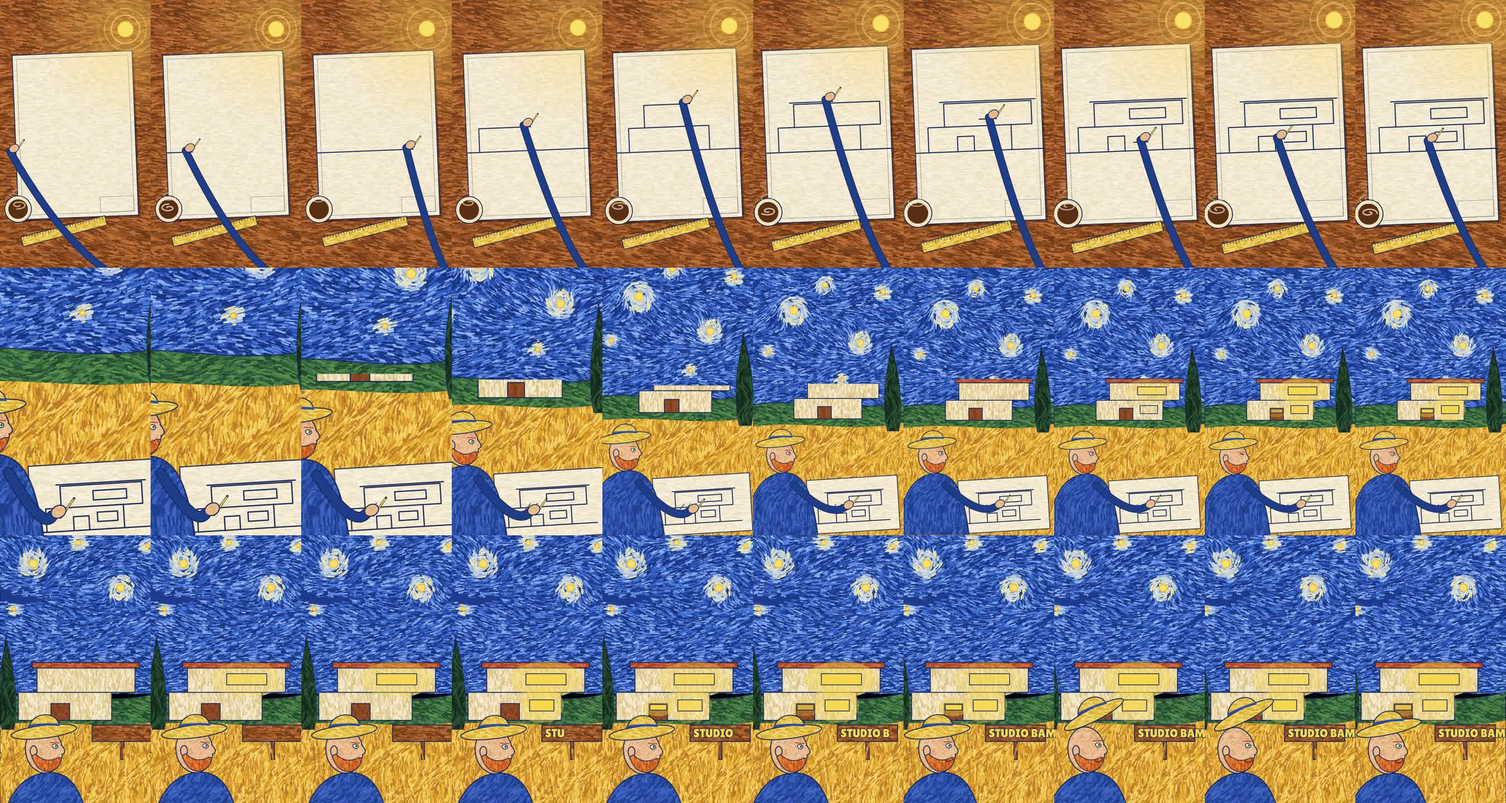
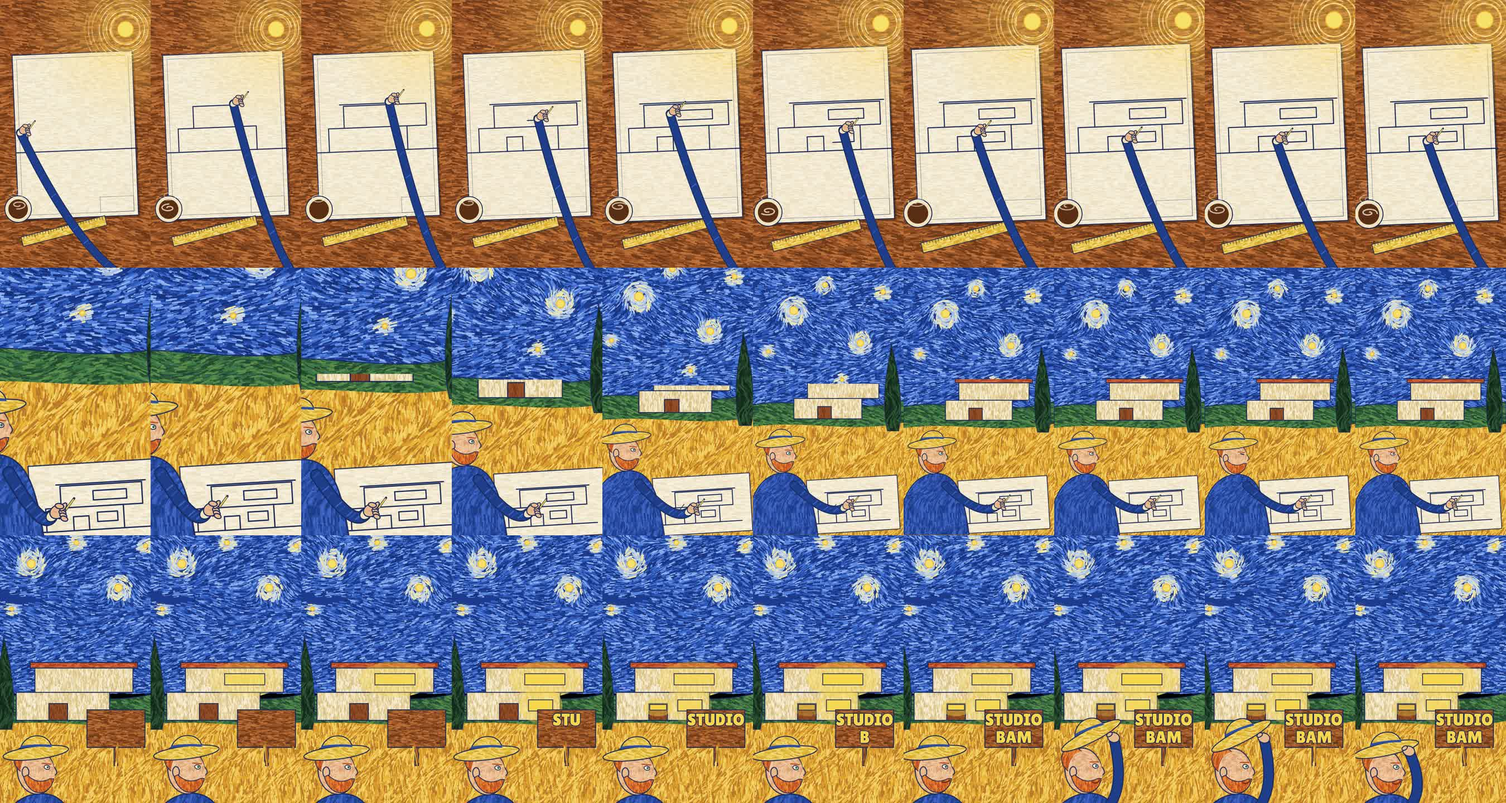
Studio Bam animation: reviewer fixes, delivery
Claude-Session: https://claude.ai/code/session_01SoH2SeP4WKBNkbqnmdVbiL

diff --git a/animasi/studio/代码工程/scenes/vg_common.js b/animasi/studio/代码工程/scenes/vg_common.js
@@ -94,6 +94,11 @@
     SL.strokes(g, head, { colors: C.skin, angFn: (x, y) => Math.atan2(y - 1360, x - 205) + 1.57, len: 16, w: 6, density: 0.07, seed: 32, box: [100, 1230, 310, 1490], outline: [C.ink, 5] });
     g.fillStyle = C.skin[0]; g.strokeStyle = C.ink; g.lineWidth = 5; g.beginPath(); g.moveTo(295, 1330); g.quadraticCurveTo(335, 1372, 298, 1384); g.fill(); g.stroke();
     g.beginPath(); g.ellipse(150, 1365, 18, 28, 0, 0, TAU); g.fill(); g.stroke();
+    const hair = new Path2D(); hair.ellipse(150, 1300, 60, 70, -0.3, 0, TAU);
+    SL.strokes(g, hair, { colors: C.beard, angFn: () => 1.9, len: 22, w: 6, density: 0.08, seed: 36, box: [80, 1220, 220, 1380], outline: [C.ink, 4] });
+    const head2 = new Path2D(); head2.ellipse(215, 1365, 90, 112, -0.15, 0, TAU);
+    SL.strokes(g, head2, { colors: C.skin, angFn: (x, y) => Math.atan2(y - 1360, x - 205) + 1.57, len: 16, w: 6, density: 0.07, seed: 37, box: [120, 1250, 310, 1480] });
+    g.beginPath(); g.ellipse(150, 1365, 18, 28, 0, 0, TAU); g.fillStyle = C.skin[0]; g.fill(); g.strokeStyle = C.ink; g.lineWidth = 5; g.stroke();
     const beard = new Path2D(); beard.moveTo(140, 1390); beard.bezierCurveTo(170, 1500, 280, 1500, 300, 1400); beard.lineTo(280, 1400); beard.bezierCurveTo(240, 1420, 200, 1420, 160, 1380); beard.closePath();
     SL.strokes(g, beard, { colors: C.beard, angFn: () => 1.4, len: 18, w: 5, density: 0.09, seed: 33, box: [130, 1370, 310, 1500], outline: [C.ink, 4] }); });
   const hat = () => P.cached('vga_hat', W, H, g => {
@@ -110,18 +115,31 @@
     c.fillStyle = '#2a6a4a'; c.beginPath(); c.arc(ex + 4, ey, 6 * blink, 0, TAU); c.fill();
     c.lineWidth = 6; c.strokeStyle = '#b84e1e'; c.beginPath(); c.moveTo(240, 1318 - smile * 6); c.lineTo(285, 1322 - smile * 10); c.stroke();
     if (smile > 0) { c.strokeStyle = '#7a2a12'; c.lineWidth = 6; c.beginPath(); c.moveTo(250, 1418); c.quadraticCurveTo(272, 1418 + 16 * smile, 292, 1408); c.stroke(); }
+    if (hatLift > 0.02) { const hx = 205 + 40 * hatLift + 120, hy = 1262 - 90 * hatLift + 10;
+      c.lineCap = 'round'; c.strokeStyle = C.ink; c.lineWidth = 58; c.beginPath(); c.moveTo(330, 1560); c.quadraticCurveTo(430, 1450, hx, hy); c.stroke();
+      c.strokeStyle = C.coat[1]; c.lineWidth = 46; c.stroke(); }
     c.save(); c.translate(205, 1262); c.translate(40 * hatLift, -90 * hatLift); c.rotate(-0.35 * hatLift); c.translate(-205, -1262); c.drawImage(hat(), 0, 0); c.restore();
+    if (hatLift > 0.02) { const hx = 205 + 40 * hatLift + 120, hy = 1262 - 90 * hatLift + 10;
+      c.fillStyle = C.skin[0]; c.strokeStyle = C.ink; c.lineWidth = 5; c.beginPath(); c.ellipse(hx, hy, 32, 26, 0.3, 0, TAU); c.fill(); c.stroke();
+      c.beginPath(); c.ellipse(hx - 22, hy - 16, 16, 10, -0.6, 0, TAU); c.fill(); c.stroke(); }
     c.restore();
   };
   // arm from shoulder to a hand holding a pencil at tip
   VG.hand = (c, t, tip, shoulder, writing) => {
-    const hx = tip[0] - 20, hy = tip[1] - 30 + (writing ? Math.sin(t * 18) * 2 : 0);
-    c.strokeStyle = C.ink; c.lineWidth = 54; c.lineCap = 'round'; c.beginPath(); c.moveTo(shoulder[0], shoulder[1]); c.quadraticCurveTo((shoulder[0] + hx) / 2 + 40, Math.max(shoulder[1], hy) + 90, hx - 30, hy + 20); c.stroke();
-    c.strokeStyle = C.coat[1]; c.lineWidth = 44; c.stroke();
-    c.strokeStyle = C.ink; c.lineWidth = 11; c.beginPath(); c.moveTo(hx + 10, hy + 26); c.lineTo(hx + 72, hy - 62); c.stroke();
-    c.strokeStyle = '#e9c54a'; c.lineWidth = 7; c.beginPath(); c.moveTo(hx + 14, hy + 20); c.lineTo(hx + 68, hy - 56); c.stroke();
-    c.fillStyle = C.skin[0]; c.strokeStyle = C.ink; c.lineWidth = 5; c.beginPath(); c.ellipse(hx, hy, 36, 28, -0.5, 0, TAU); c.fill(); c.stroke();
-    c.strokeStyle = C.skin[1]; c.lineWidth = 4; c.beginPath(); c.moveTo(hx - 10, hy - 14); c.lineTo(hx + 14, hy - 4); c.stroke();
+    const hx = tip[0] - 20, hy = tip[1] - 30 + (writing ? Math.sin(t * 18) * 2 : 0), mx = (shoulder[0] + hx) / 2 + 40, my = Math.max(shoulder[1], hy) + 90;
+    const arm = () => { c.beginPath(); c.moveTo(shoulder[0], shoulder[1]); c.quadraticCurveTo(mx, my, hx - 34, hy + 22); };
+    c.lineCap = 'round'; c.strokeStyle = C.ink; c.lineWidth = 62; arm(); c.stroke(); c.strokeStyle = C.coat[1]; c.lineWidth = 50; arm(); c.stroke();
+    c.lineWidth = 7; for (let i = 0; i < 14; i++) { const f = i / 14, x = (1 - f) ** 2 * shoulder[0] + 2 * f * (1 - f) * mx + f * f * (hx - 34), y = (1 - f) ** 2 * shoulder[1] + 2 * f * (1 - f) * my + f * f * (hy + 22);
+      c.strokeStyle = C.coat[i % 3]; c.beginPath(); c.moveTo(x - 14, y + 10); c.lineTo(x + 12, y - 12); c.stroke(); }
+    c.fillStyle = '#f0e3c0'; c.strokeStyle = C.ink; c.lineWidth = 5; c.beginPath(); c.ellipse(hx - 30, hy + 20, 30, 24, -0.6, 0, TAU); c.fill(); c.stroke();   // cuff
+    c.strokeStyle = C.ink; c.lineWidth = 11; c.beginPath(); c.moveTo(hx + 4, hy + 30); c.lineTo(hx + 72, hy - 62); c.stroke();
+    c.strokeStyle = '#e9c54a'; c.lineWidth = 7; c.beginPath(); c.moveTo(hx + 8, hy + 24); c.lineTo(hx + 68, hy - 56); c.stroke();
+    c.fillStyle = C.skin[0]; c.strokeStyle = C.ink; c.lineWidth = 5;
+    c.beginPath(); c.ellipse(hx - 4, hy, 38, 30, -0.5, 0, TAU); c.fill(); c.stroke();                                    // palm/back of hand
+    for (let k = 0; k < 3; k++) { c.beginPath(); c.ellipse(hx + 18 + k * 4, hy + 4 + k * 14, 17, 11, 0.4, 0, TAU); c.fill(); c.stroke(); }   // curled fingers
+    c.beginPath(); c.ellipse(hx + 22, hy - 22, 22, 11, -0.9, 0, TAU); c.fill(); c.stroke();                              // index on pencil
+    c.beginPath(); c.ellipse(hx + 4, hy - 26, 20, 12, 0.2, 0, TAU); c.fill(); c.stroke();                                // thumb
+    c.strokeStyle = C.skin[1]; c.lineWidth = 4; c.beginPath(); c.moveTo(hx - 24, hy - 4); c.lineTo(hx - 4, hy + 6); c.stroke();
   };
   // camera: scale s around focus (fx,fy), plus pan dx
   VG.cam = (c, s, fx, fy, dx = 0, dy = 0) => { c.translate(fx + dx, fy + dy); c.scale(s, s); c.translate(-fx, -fy); };

diff --git a/animasi/studio/代码工程/scenes/vg_home.js b/animasi/studio/代码工程/scenes/vg_home.js
@@ -7,18 +7,19 @@ SCENES['vg_home'] = (() => {
   return {
     draw(c, lt, t) {
       const tr = U.ease.inOut(U.clamp(lt / 5));
-      c.save(); VG.cam(c, 1.08, 540, 960, U.lerp(45, -45, tr));
+      c.save(); VG.cam(c, 1.08, 540, 960, U.lerp(30, -20, tr));
       VG.sky(c, t, { swirls: SW, stars: STARS, h: 1120, seed: 9, n: 10000 });
       VG.land(c, 'home', { hill: 1150, field: 1330, cypress: 60 });
       VG.house(c, 'home', HX, HY, HS, 1, t, [U.ss(B, B + 0.15, lt), U.ss(2 * B, 2 * B + 0.15, lt), U.ss(3 * B, 3 * B + 0.15, lt)]);
       // sign board on a post, letters painted on the beat
-      c.drawImage(P.cached('hm_sign', W, H, g => { VG.box(g, 800, 1420, 822, 1560, C.wood, 61); VG.box(g, 610, 1330, 1010, 1440, C.wood, 62, 0); }), 0, 0);
+      c.drawImage(P.cached('hm_sign', W, H, g => { VG.box(g, 770, 1470, 794, 1600, C.wood, 61); VG.box(g, 590, 1230, 975, 1480, C.wood, 62, 0); }), 0, 0);
       const txt = 'STUDIO BAM', n = Math.floor(U.clamp((lt - 2 * B) / (B * 3)) * txt.length + (lt > 2 * B ? 1 : 0));
-      c.font = '78px "LilitaOne-400"'; c.textBaseline = 'middle'; c.fillStyle = '#f7d64a'; c.strokeStyle = C.ink; c.lineWidth = 8;
-      const s = txt.slice(0, Math.min(n, txt.length)); c.strokeText(s, 632, 1388); c.fillText(s, 632, 1388);
+      c.font = '112px "LilitaOne-400"'; c.textBaseline = 'middle'; c.textAlign = 'center'; c.fillStyle = '#f7d64a'; c.strokeStyle = C.ink; c.lineWidth = 10;
+      const s = txt.slice(0, Math.min(n, txt.length)), l1 = s.slice(0, 6), l2 = s.slice(7);
+      c.strokeText(l1, 782, 1300); c.fillText(l1, 782, 1300); if (l2) { c.strokeText(l2, 782, 1415); c.fillText(l2, 782, 1415); } c.textAlign = 'left';
       VG.wheat(c, t, 1560, 70, 71);
       const turn = U.ss(3.0, 3.6, lt);
-      VG.architect(c, t, { x: 290, y: 1500, s: 1.25, hatLift: U.ss(3.3, 3.7, lt) * (1 - U.ss(4.4, 4.9, lt)), smile: turn, look: 0.4 + turn * 0.6 });
+      VG.architect(c, t, { x: 250, y: 1640, s: 1.25, hatLift: U.ss(3.3, 3.7, lt) * (1 - U.ss(4.4, 4.9, lt)), smile: turn, look: 0.4 + turn * 0.6 });
       c.restore();
     },
   };

diff --git a/animasi/studio/代码工程/scenes/vg_sketch.js b/animasi/studio/代码工程/scenes/vg_sketch.js
@@ -25,6 +25,8 @@ SCENES['vg_sketch'] = (() => {
       const fl = 0.85 + 0.15 * Math.sin(t * 9) * Math.sin(t * 3.7);
       const gr = c.createRadialGradient(900, 210, 20, 900, 210, 700); gr.addColorStop(0, `rgba(255,214,90,${0.45 * fl})`); gr.addColorStop(1, 'rgba(255,214,90,0)');
       c.fillStyle = gr; c.fillRect(0, 0, W, 1000);
+      c.lineCap = 'round'; for (let i = 0; i < 160; i++) { const r0 = 110 + (i % 8) * 26, a = i * 2.39 + t * (0.9 - (i % 8) * 0.06); c.strokeStyle = ['#ffe27a', '#f2b730', '#fff1b8'][i % 3]; c.lineWidth = 8; c.globalAlpha = 0.8 - (i % 8) * 0.08;
+        c.beginPath(); c.arc(900, 210, r0, a, a + 0.35); c.stroke(); } c.globalAlpha = 1;
       VG.stars(c, t, [[900, 210, 90]], '#ffe27a');
       // coffee cup top-down + steam swirls (motif)
       c.fillStyle = '#f0e3c0'; c.strokeStyle = C.ink; c.lineWidth = 6; c.beginPath(); c.arc(130, 1500, 95, 0, TAU); c.fill(); c.stroke();
@@ -34,7 +36,7 @@ SCENES['vg_sketch'] = (() => {
         c.beginPath(); for (let i = 0; i <= 20; i++) { const a = i / 20 * TAU * 1.2 + t * 2 + k, r = 12 + i * 2.2 + ph * 30; const x = 130 + Math.cos(a) * r, y = 1500 - ph * 260 + Math.sin(a) * r * 0.5; i ? c.lineTo(x, y) : c.moveTo(x, y); } c.stroke(); }
       c.globalAlpha = 1;
       // the sketch (main action)
-      const p = U.ss(0.25, 4.4, lt);
+      const p = U.clamp(0.06 + U.ease.out(U.clamp(lt / 4.2)) * 0.94);
       c.save(); c.translate(540, 970); c.rotate(-0.04); c.translate(-540, -970);
       const tip = VG.revealLines(c, lines, p, { strokeStyle: C.ink, lineWidth: 7 });
       c.restore();

diff --git a/animasi/studio/代码工程/scenes/vg_grow.js b/animasi/studio/代码工程/scenes/vg_grow.js
@@ -11,7 +11,7 @@ SCENES['vg_grow'] = (() => {
       c.save(); VG.cam(c, U.lerp(1.55, 1, pull), 730, 1720);
       VG.sky(c, t, { swirls: SW, stars: STARS });
       VG.land(c, 'grow');
-      VG.house(c, 'grow', 300, 1095, 480, U.ss(0.5, 3.6, lt), t, [U.ss(3.4, 3.7, lt), U.ss(3.7, 4, lt), U.ss(4, 4.3, lt)]);
+      VG.house(c, 'grow', 300, 1095, 480, U.ss(0.5, 3.6, lt), t, [0, 0, 0]);
       c.save(); c.translate(560, 1720); c.rotate(-0.06); c.translate(-560, -1720);
       c.drawImage(P.cached('gr_paper', W, H, g => { const p = new Path2D(); p.rect(400, 1520, 640, 380); SL.strokes(g, p, { colors: C.paper, angFn: () => 0.05, len: 26, w: 7, density: 0.06, seed: 41, box: [400, 1520, 1040, 1900], outline: [C.ink, 5] }); }), 0, 0);
       VG.revealLines(c, sketch, 1, { strokeStyle: C.ink, lineWidth: 6 });

diff --git a/animasi/studio/审片/review.md b/animasi/studio/审片/review.md
@@ -1,0 +1,20 @@
+# Review Independen — 成片.mp4 (Studio Bam, 15 s, Van Gogh)
+
+**Skor: 5/10.** Ceritanya terbaca dan langit berputarnya hidup. Tapi hook-nya lemah, ada patahan kontinuitas, dan beberapa elemen terpotong. Belum siap dikirim.
+
+## Masalah
+
+| Timecode | Tag | Masalah | Saran perbaikan |
+|---|---|---|---|
+| 0:00–0:02 | MERAH | Hook lemah. Kertasnya kosong dan meja coklatnya datar. Garis pertama baru muncul sekitar 1 s, dan selama 3 detik pertama tidak ada unsur Van Gogh, padahal ini konten viral. | Buka langsung dengan langit berputar atau goresan cepat yang membesar. Bisa juga sketsa yang sudah setengah jadi lalu "meledak" menjadi lukisan. Garis pertama harus muncul sebelum 0,3 s. |
+| 0:00–0:05 | MERAH | Anatomi "tangan": berupa tabung biru panjang tanpa bahu, dari pojok kanan bawah, dengan ujung bulat tanpa jari. Pensil menempel di ujungnya. Terlihat seperti selang, bukan tangan. | Buat tangan dengan jari yang menggenggam pensil dan pergelangan dengan manset. Lengan masuk dari bawah frame dengan perspektif yang wajar. |
+| 0:00–0:05 | KUNING | Gaya shot 1 tidak konsisten: hanya meja bertekstur kayu, sedangkan kertas, penggaris, dan kopi bergaya flat vector. Van Gogh-nya tidak terasa. | Beri goresan impasto pada meja dan kertas, dan buat matahari di pojok berputar seperti di shot 2–3. |
+| 0:05 (cut) | KUNING | Cut 1→2 tiba-tiba, tanpa match. Tangan di close-up jadi pelukis yang terpotong kiri, separuh wajahnya di luar frame (0:05–0:06). Kanvasnya juga terpotong di kanan bawah. | Buat match cut dari kertas sketsa ke kanvas di posisi yang sama. Geser karakter supaya wajahnya utuh. |
+| 0:05–0:06 | KUNING | Selama sekitar 1 s rumah belum ada. Langit dan ladang kosong, hanya ada satu bintang. | Mulai pertumbuhan rumah langsung di 0:05. |
+| 0:09,9→0:10 | MERAH | Patahan kontinuitas: di akhir shot 2 jendela rumah sudah menyala kuning, lalu di awal shot 3 gelap lagi dan pintunya coklat. Skala dan posisi rumah juga melompat. | Mulai shot 3 dengan state yang sama (jendela sudah menyala) atau redupkan di akhir shot 2. Pakai push-in, jangan hard cut. |
+| 0:10–0:15 | KUNING | Tubuh pelukis memotong bagian bawah rumah, dan kepalanya menutupi pintu dan jendela bawah, padahal ini momen "rumah selesai". | Turunkan atau perkecil karakter, atau geser ke kiri, supaya rumah terlihat penuh. |
+| 0:12–0:15 | MERAH | Papan "STUDIO BAM" terpotong di tepi kanan frame (huruf M menyentuh tepi). Teksnya kecil, dengan tinggi sekitar 2% frame, sehingga sulit dibaca di ponsel. | Pindahkan papan ke dalam safe area (≥8% dari tepi) dan perbesar 2–3×. Pertimbangkan teks berukuran logo di sepertiga atas. |
+| 0:13–0:14 | KUNING | Saat mengangkat topi, topi melayang lepas tanpa tangan yang memegangnya, dan kepala botak lonjong tampak janggal. Mata juga tidak berkedip atau tersenyum. | Tambahkan tangan yang mengangkat topi, rambut di kepala, dan senyum atau kedipan. |
+| 0:00–0:15 | KUNING | Tanda "AI/template slop": wajah sederhana bergaya clip-art, bentuk rumah kotak polos (kurang "arsitek"), cemara terpotong di tepi kiri dan kanan. | Beri rumah detail arsitektural (overhang, kaca, material) supaya menjual jasa studio. |
+| Semua | HIJAU | Langit berputar, ladang gandum, dan cemara jelas bergaya Van Gogh di shot 2–3. Selalu ada gerak (goresan langit beranimasi). Penutupnya berupa aksi (angkat topi), bukan title card. | — |
+| Audio | KUNING | Loudness terintegrasi -19,9 LUFS, terlalu pelan untuk media sosial (target sekitar -14). True peak -0,9 dBTP (tidak clipping). LRA 10 LU. | Normalisasi ke -14 LUFS dengan limiter true peak -1 dBTP. |

diff --git a/animasi/studio/审片/review2.md b/animasi/studio/审片/review2.md
@@ -1,0 +1,29 @@
+# Review Independen #2 — 成片.mp4 (Studio Bam, 15 s, Van Gogh)
+
+**Skor: 7/10.** Keempat masalah MERAH dari review pertama sudah diperbaiki. Audio sudah sesuai target. Sisa masalahnya kosmetik dan tidak menghalangi rilis.
+
+Bukti: frame ekstra di `审片/extra/` (0,0 / 0,5 / 1,0 / 4,8 / 5,0 / 5,2 / 9,8 / 9,9 / 10,0 / 10,1 / 10,3 / 12,5 / 13,0 / 13,5 / 14,0 s), digabung di `extra/grid.jpg`.
+
+## Status MERAH lama
+
+| Timecode | Item lama | Status sekarang |
+|---|---|---|
+| 0:00–0:02 | Hook lemah | **Diperbaiki → KUNING.** Garis horizon sudah ada di 0,0 s, matahari berputar di pojok, dan denah sudah terbentuk di 0,5 s. Meja coklat masih mendominasi, jadi hook cukup tapi belum "wow". |
+| 0:00–0:05 | Tangan tanpa jari | **Diperbaiki → KUNING.** Sekarang ada kepalan dengan jari yang menggenggam pensil. Lengannya masih berupa tabung biru panjang dan tipis seperti selang, tanpa bahu. |
+| 0:09,9→0:10 | Jendela menyala lalu gelap | **Diperbaiki.** Jendela gelap di 9,8, 9,9, 10,0 dan 10,3 s, lalu baru menyala di sekitar 12,5 s. Kontinuitasnya konsisten. |
+| 0:12–0:15 | Papan "STUDIO BAM" terpotong/kecil | **Diperbaiki.** Papan sudah utuh di dalam frame dan teks dua baris besar terbaca di ponsel. Huruf muncul bertahap ("STUDIO" di 12,5 s, lengkap di 13,0 s). |
+
+## Temuan sekarang
+
+| Timecode | Tag | Masalah | Saran |
+|---|---|---|---|
+| 0:05,0 | KUNING | Frame transisi: pelukis terpotong di kiri, setengah wajahnya keluar frame, kanvas terpotong (terlihat sesaat sebelum framing benar di 5,2 s). | Mulai shot 2 dengan framing final, atau samarkan dengan transisi. |
+| 0:10,0 | KUNING | Cut shot 2→3 masih hard cut. Skala dan posisi rumah melompat (rumah lebih besar dan bergeser kanan), lalu cemara pindah ke tepi kiri. | Push-in singkat atau match cut. |
+| 0:10–0:12,4 | KUNING | Papan coklat kosong selama sekitar 2,5 s. Terbaca sebagai elemen mati. | Mulai pengisian teks lebih cepat, atau munculkan papan bersamaan dengan teks. |
+| 0:10–0:15 | KUNING | Kepala dan bahu pelukis di pojok kiri bawah menutup sebagian ladang. Rumah sudah terlihat penuh (lebih baik dari sebelumnya), tetapi wajahnya masih bergaya clip-art. | Opsional: perhalus wajah dan senyum. |
+| 0:13–0:14 | HIJAU | Angkat topi sekarang dilakukan dengan tangan yang memegang topi. Penutupnya berupa aksi, bukan title card. | — |
+| 0:12,5–0:15 | HIJAU | Jendela rumah menyala hangat, sehingga ada payoff "rumah hidup" yang jelas. | — |
+| Semua | HIJAU | Langit berputar, bintang, ladang gandum, dan cemara konsisten bergaya Van Gogh. Meja shot 1 sudah bertekstur impasto. | — |
+| Audio | HIJAU | Integrated -13,5 LUFS (target sekitar -14 tercapai), LRA 3,4 LU. | — |
+
+**Kesimpulan: tidak ada MERAH tersisa.** Film layak dikirim. Item KUNING bisa dipoles jika ada waktu.

diff --git a/STATE.md b/STATE.md
@@ -43,3 +43,8 @@
 ## 2026-10-13 — huashu-art-motion skill
 - Vendored alchaincyf/huashu-art-motion (MIT, e47f792) ke .claude/skills/huashu-art-motion (tanpa assets/showcase 41MB). Wrapper Indonesia: .claude/skills/bam-artmotion.
 - Env: Playwright harus dipin 1.56.0 (chromium-1194). Smoke test Van Gogh still + klip 3s, film_gate lulus.
+
+## 2026-10-13 — Animasi Studio Bam (Van Gogh, 15s 9:16)
+- 3 arah (VG/Matisse/Bauhaus), Bam pilih Van Gogh. Shot: sketsa→rumah tumbuh→jendela+papan STUDIO BAM+angkat topi. Musik sintesis 96 BPM, -13.5 LUFS.
+- Wajah dibuat kode atas permintaan Bam (melanggar default skill). Review 1: 5/10 (4 merah) → diperbaiki; review 2: 7/10, tanpa merah. deliver.py hijau.
+- Sisa kuning: lengan seperti tabung, lompatan ukuran rumah di cut 10s, papan kosong 10–12s.
